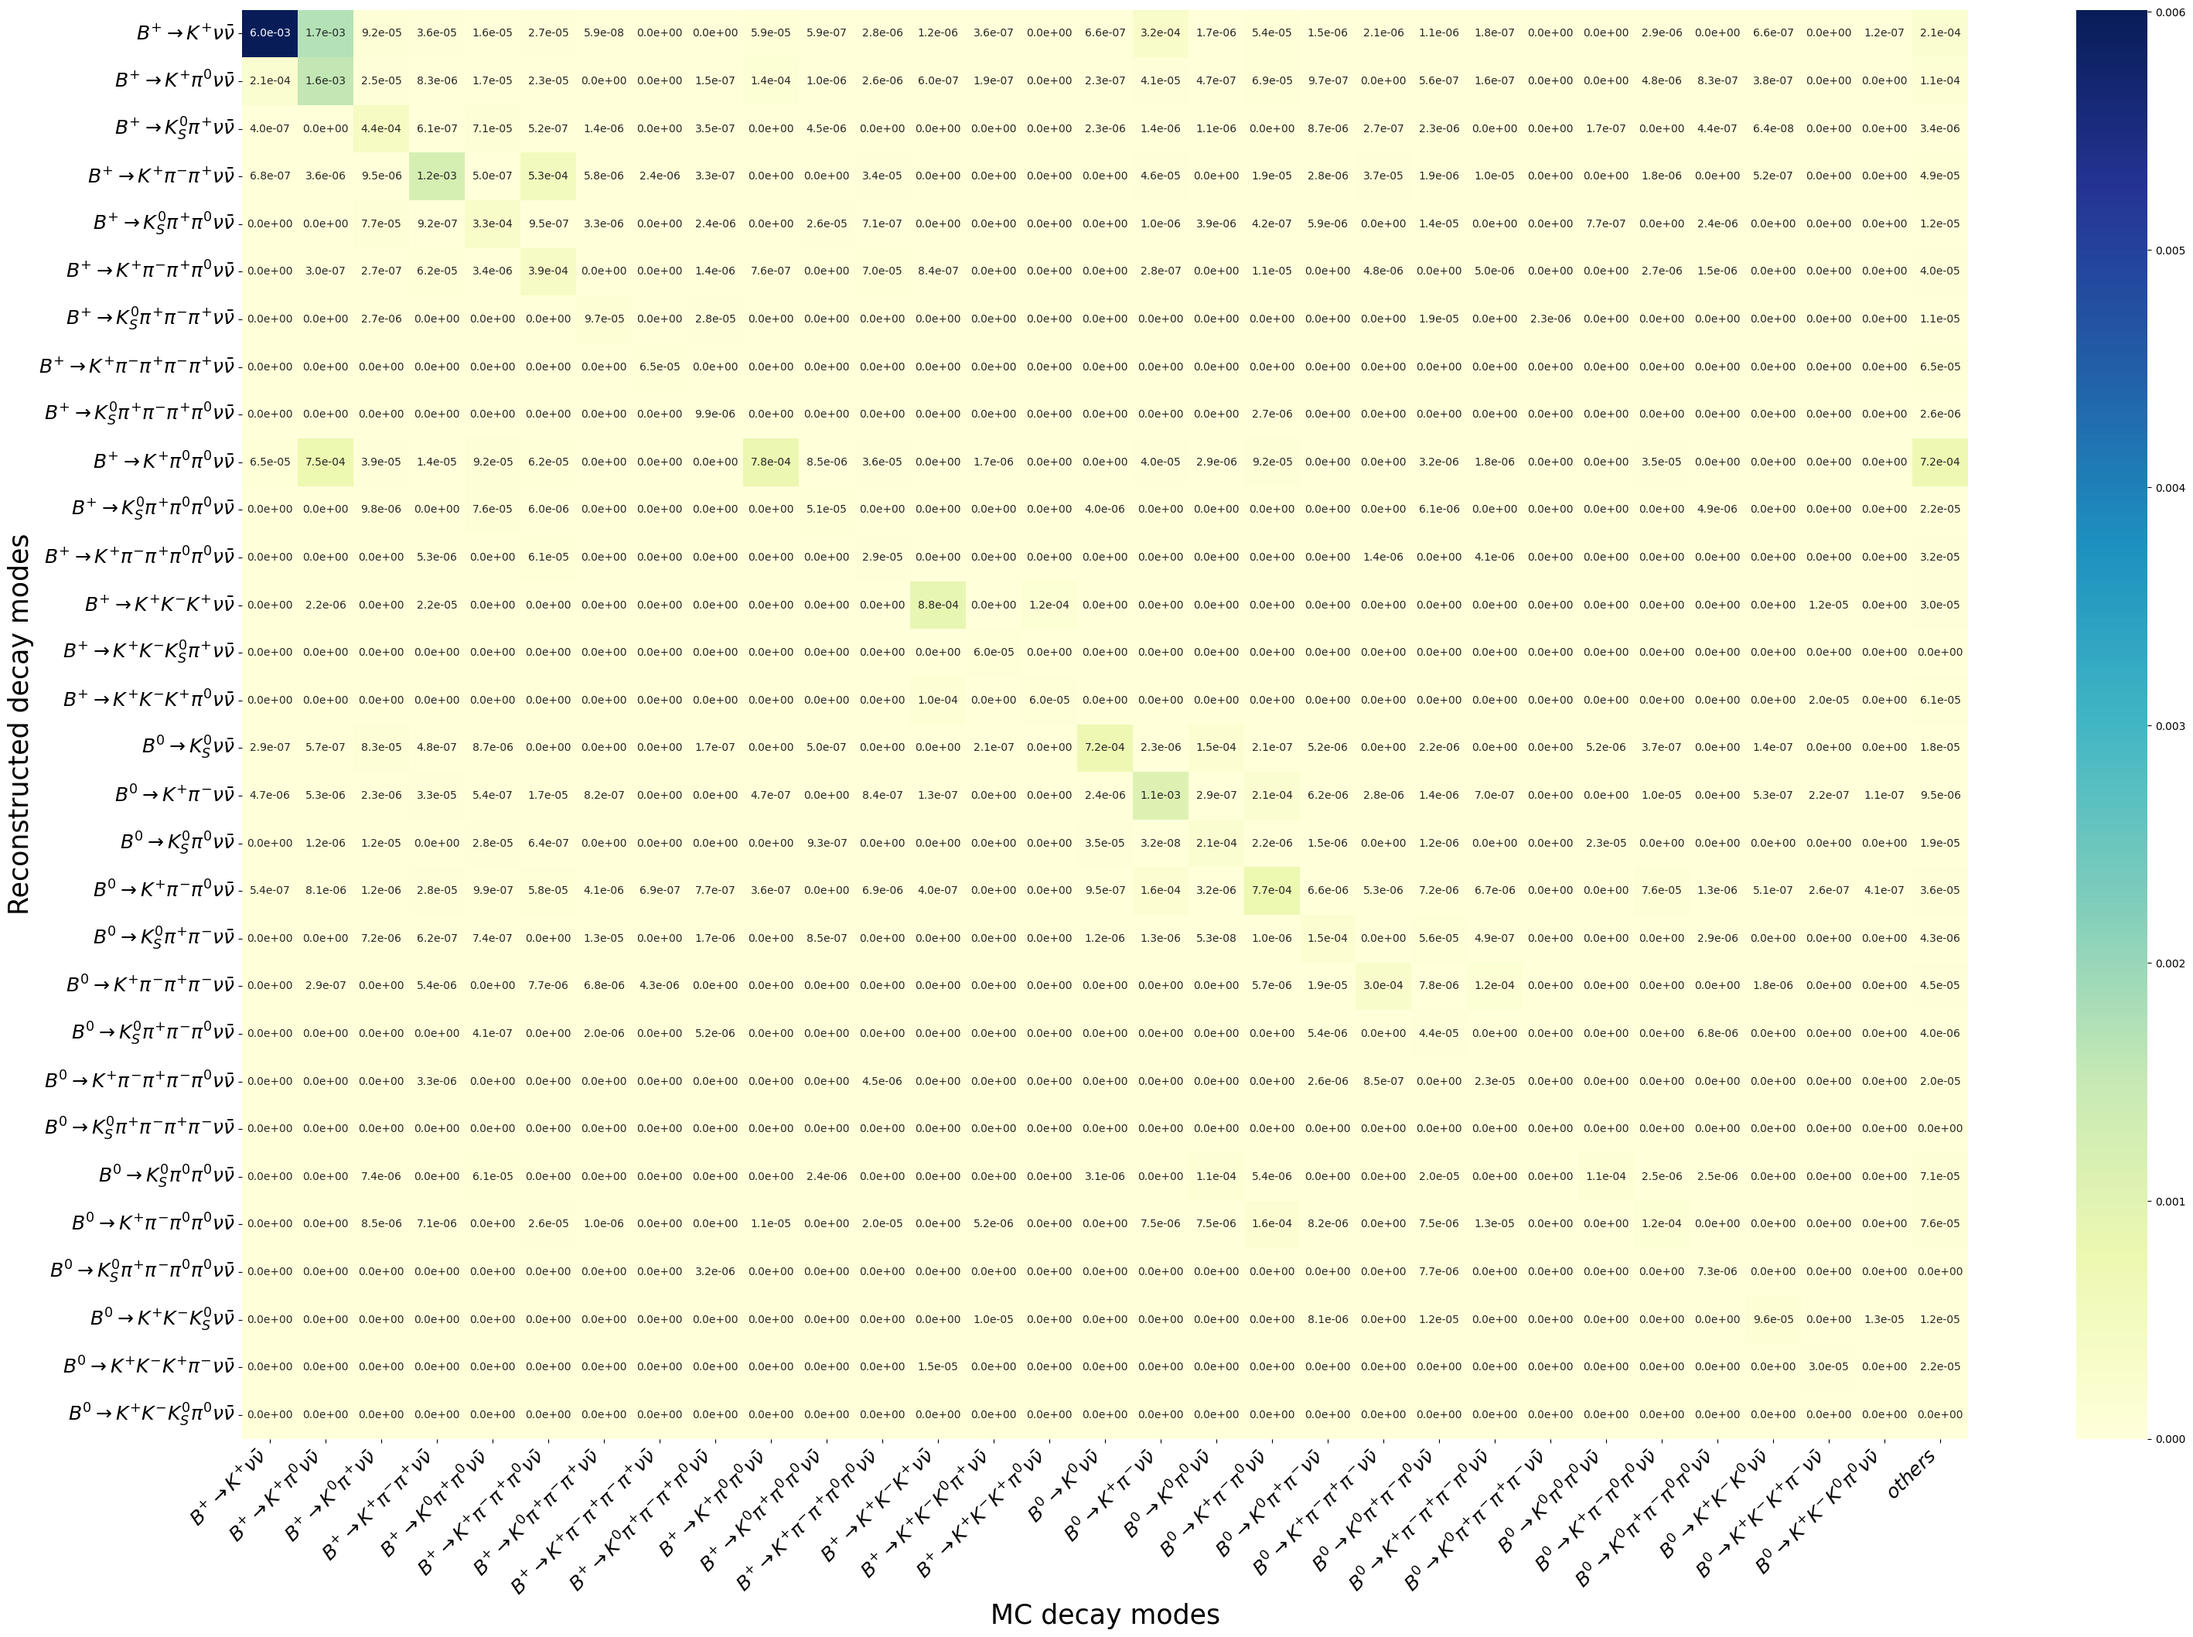
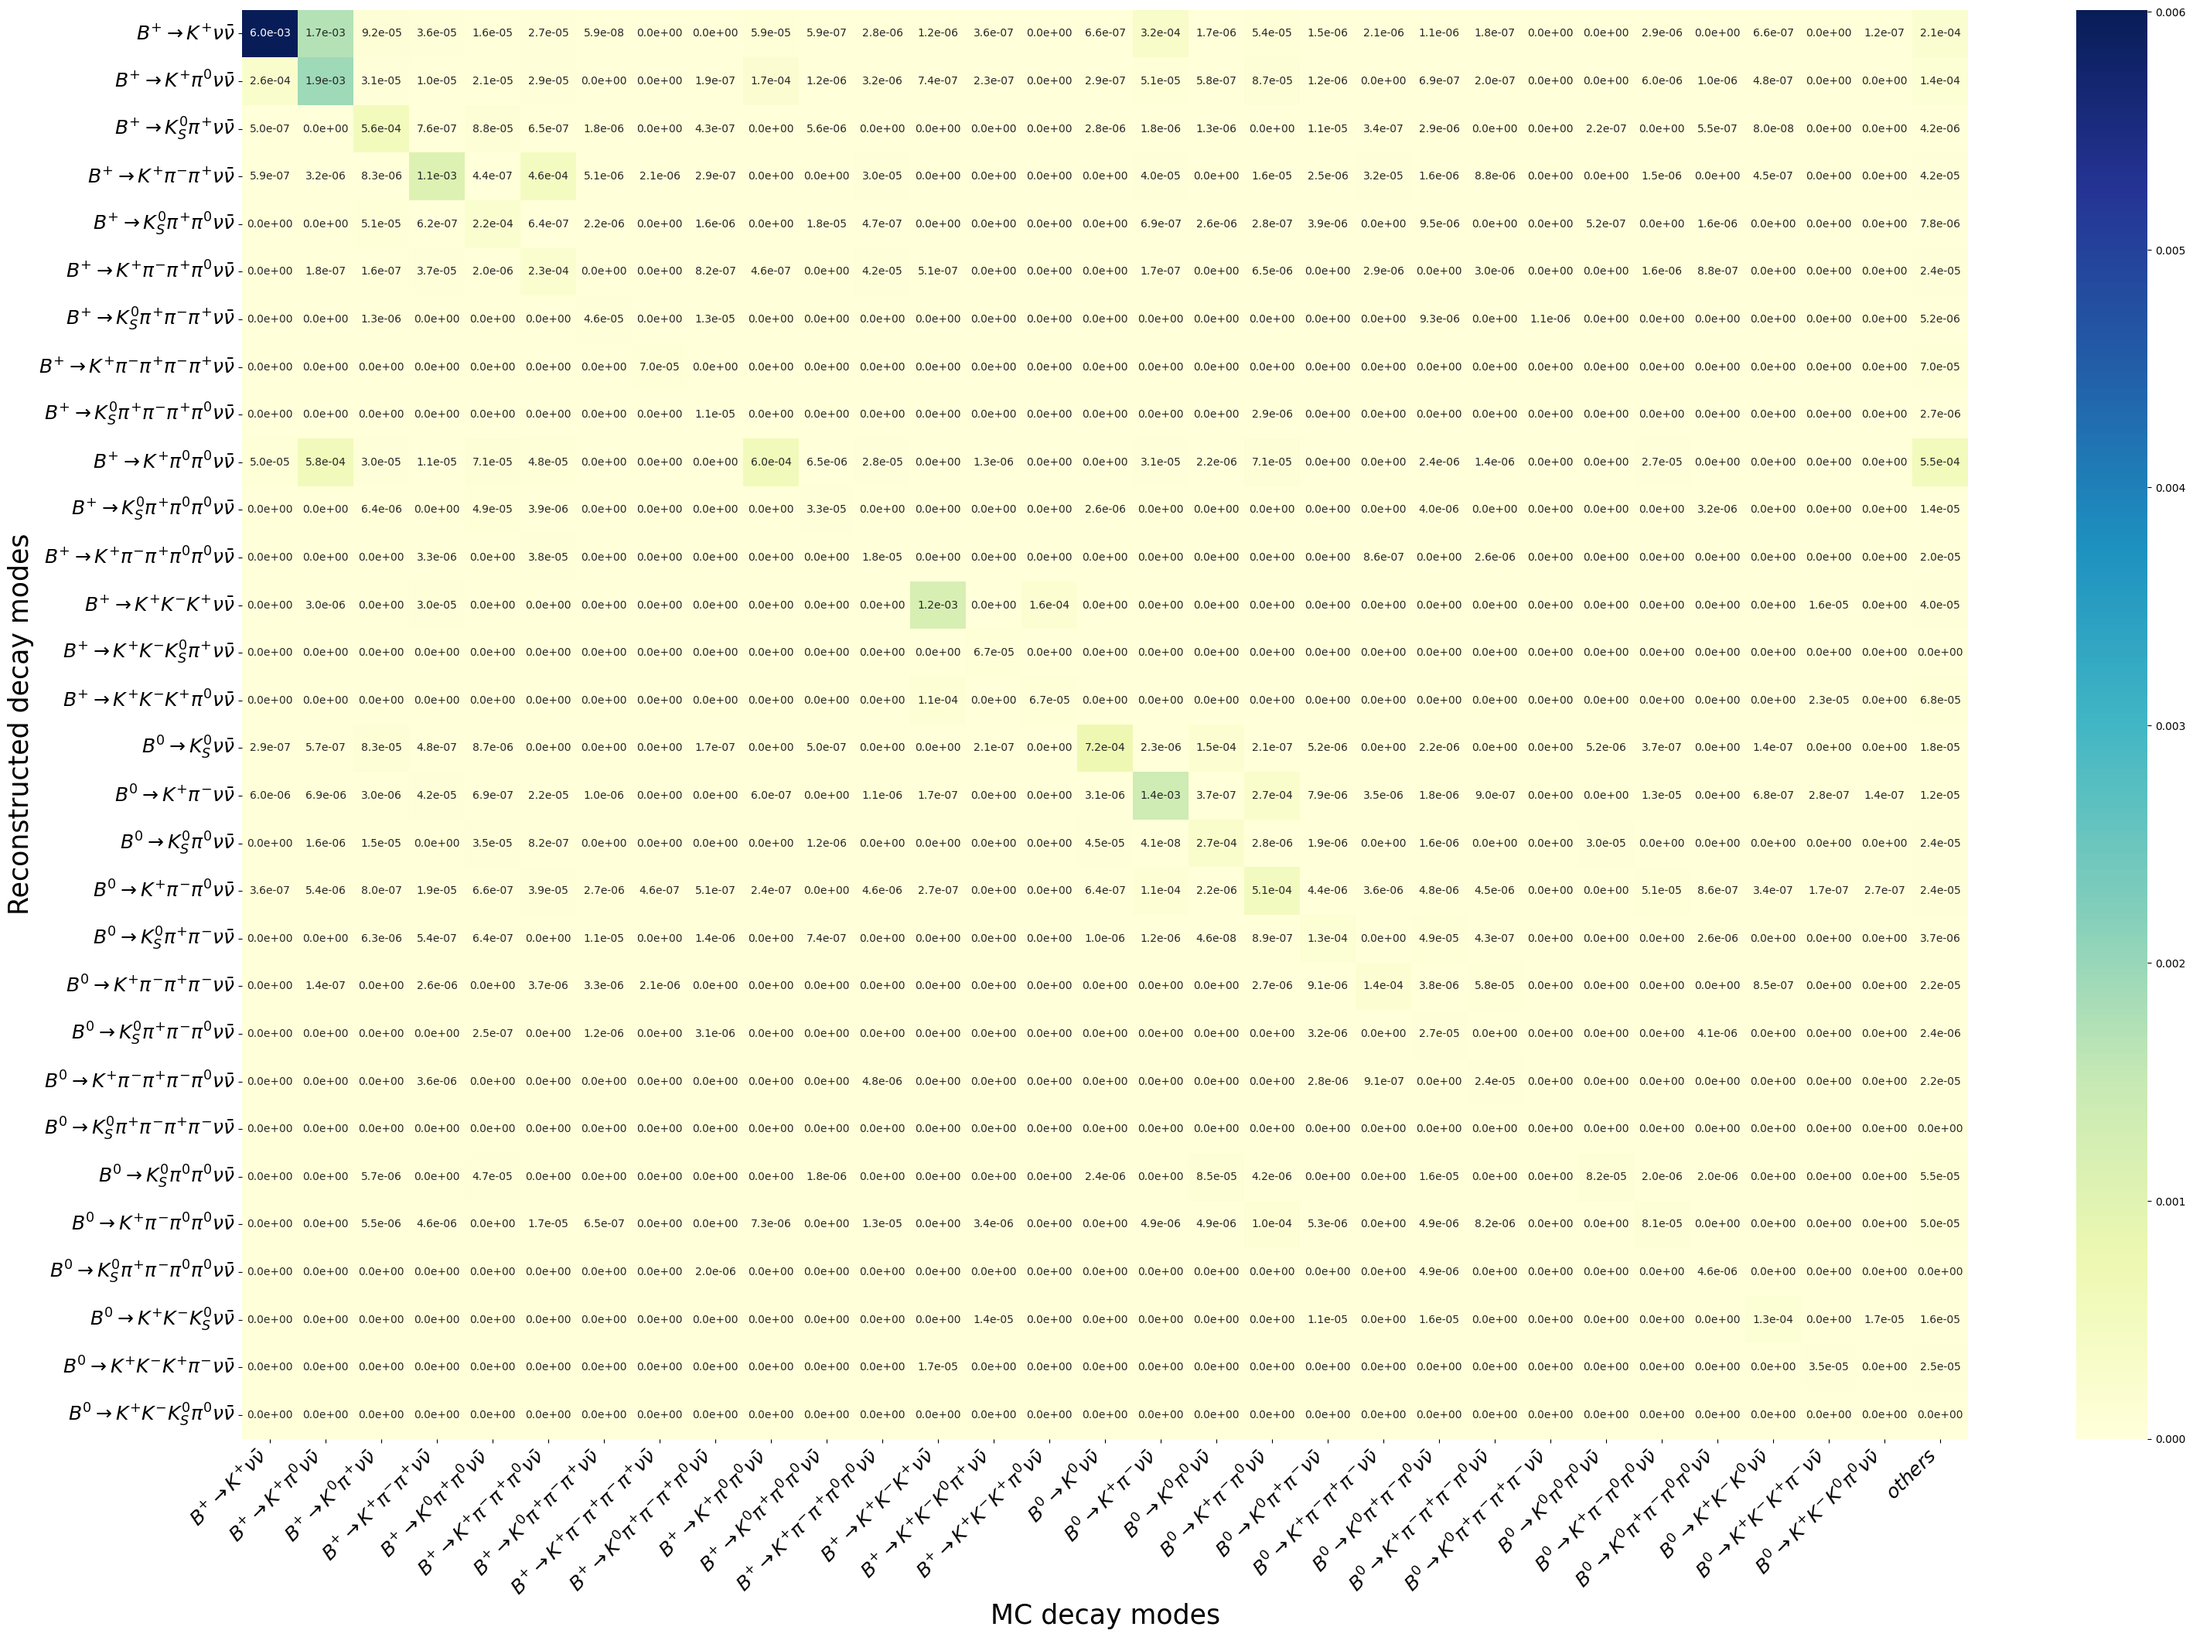
update Nevt

Changed region(s): [[0.1241, 0.0312, 0.1862, 0.0624]]

diff --git a/Belle2/Diagonal_Efficiency_Per_Mode.py b/Belle2/Diagonal_Efficiency_Per_Mode.py
@@ -47,35 +47,35 @@ reco_list = [r"$B^{+}\rightarrow K^{+}\nu\bar{\nu}$",
 
 correction = []
 correction.append(1995.975877)
-correction.append(1875.268446)
-correction.append(3734.842877)
-correction.append(735.426985)
-correction.append(901.774187)
-correction.append(445.034176)
-correction.append(130.532415)
-correction.append(27.387386)
-correction.append(137.613078)
-correction.append(138.883082)
-correction.append(113.435178)
-correction.append(88.451014)
-correction.append(59.125259)
-correction.append(23.531777)
-correction.append(11.700276)
+correction.append(1502.585535)
+correction.append(2988.635366)
+correction.append(844.979127)
+correction.append(1346.461865)
+correction.append(737.196171)
+correction.append(272.574339)
+correction.append(25.318259)
+correction.append(128.540240)
+correction.append(180.494993)
+correction.append(174.151800)
+correction.append(140.068766)
+correction.append(43.920483)
+correction.append(20.925846)
+correction.append(10.417798)
 correction.append(1748.551733)
-correction.append(3464.949948)
-correction.append(1724.604618)
-correction.append(933.092093)
-correction.append(750.245437)
-correction.append(134.413744)
-correction.append(453.176426)
-correction.append(141.092575)
-correction.append(27.900974)
-correction.append(141.230389)
-correction.append(116.802087)
-correction.append(89.772413)
-correction.append(59.513802)
-correction.append(15.785913)
-correction.append(11.798432)
+correction.append(2698.236699)
+correction.append(1344.974956)
+correction.append(1395.602934)
+correction.append(861.034692)
+correction.append(280.510287)
+correction.append(751.723680)
+correction.append(131.773694)
+correction.append(25.787289)
+correction.append(183.495400)
+correction.append(179.368498)
+correction.append(142.182852)
+correction.append(44.223493)
+correction.append(13.812601)
+correction.append(10.466336)
 correction.append(1943.409873)
 
 Efficiency_diagonal = []

diff --git a/Belle2/Efficiency_Matrix.py b/Belle2/Efficiency_Matrix.py
@@ -79,35 +79,35 @@ gen_list = [r"$B^{+}\rightarrow K^{+}\nu\bar{\nu}$",
 
 correction = []
 correction.append(1995.975877)
-correction.append(1875.268446)
-correction.append(3734.842877)
-correction.append(735.426985)
-correction.append(901.774187)
-correction.append(445.034176)
-correction.append(130.532415)
-correction.append(27.387386)
-correction.append(137.613078)
-correction.append(138.883082)
-correction.append(113.435178)
-correction.append(88.451014)
-correction.append(59.125259)
-correction.append(23.531777)
-correction.append(11.700276)
+correction.append(1502.585535)
+correction.append(2988.635366)
+correction.append(844.979127)
+correction.append(1346.461865)
+correction.append(737.196171)
+correction.append(272.574339)
+correction.append(25.318259)
+correction.append(128.540240)
+correction.append(180.494993)
+correction.append(174.151800)
+correction.append(140.068766)
+correction.append(43.920483)
+correction.append(20.925846)
+correction.append(10.417798)
 correction.append(1748.551733)
-correction.append(3464.949948)
-correction.append(1724.604618)
-correction.append(933.092093)
-correction.append(750.245437)
-correction.append(134.413744)
-correction.append(453.176426)
-correction.append(141.092575)
-correction.append(27.900974)
-correction.append(141.230389)
-correction.append(116.802087)
-correction.append(89.772413)
-correction.append(59.513802)
-correction.append(15.785913)
-correction.append(11.798432)
+correction.append(2698.236699)
+correction.append(1344.974956)
+correction.append(1395.602934)
+correction.append(861.034692)
+correction.append(280.510287)
+correction.append(751.723680)
+correction.append(131.773694)
+correction.append(25.787289)
+correction.append(183.495400)
+correction.append(179.368498)
+correction.append(142.182852)
+correction.append(44.223493)
+correction.append(13.812601)
+correction.append(10.466336)
 correction.append(1943.409873)
 
 for i in range(0,30):
